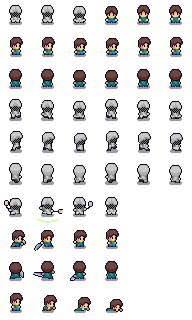
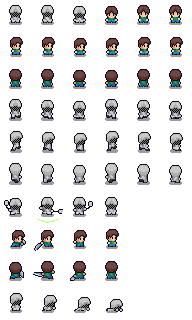
finalbossadd

diff --git a/src/js/enemies/finalboss.js b/src/js/enemies/finalboss.js
@@ -1,0 +1,224 @@
+import { Actor, Animation, AnimationStrategy, CollisionType, range, SpriteSheet, Vector } from "excalibur";
+import { Resources } from '../resources.js';
+import { Player } from "../player.js";
+import { Healthbar } from "../UI/healthBar.js";
+import { Projectile } from "../projectiles/projectile.js";
+
+export class Finalboss extends Actor {
+    currentAnimation = null;
+    detectionRadius = 5000; // Radius to detect the player
+    attackradius = 30;
+    normalSpeed = 50; // Normal movement speed
+    attackSpeed = 80; // Movement speed when attacking
+
+    playerSeen
+    damageTaken = false;
+
+    animationDeath
+    animationRight
+    animationLeft
+    animationAttack
+    animationHurt
+    healthBar
+    health = 1;
+    scene
+    game
+
+    constructor(scene, game) {
+        super({
+            width: 5, height: 5, collisionType: CollisionType.Active, z: 20
+        });
+        this.scale = new Vector(1, 1);
+        this.direction = new Vector(0, 0);
+        this.changeDirectionInterval = 2000;
+        this.timeSinceLastChange = 0;
+        this.scene = scene;
+        this.game = game
+    }
+
+    onInitialize(engine) {
+        super.onInitialize(engine);
+        this.collider.useBoxCollider(
+            25, 10, new Vector(0, 0), new Vector(-10, -5)
+        )
+       
+
+       
+
+        // Define the sprite sheet
+        const SpriteSheetFinalboss = SpriteSheet.fromImageSource({
+            image: Resources.Finalboss,
+            grid: {
+                rows: 10,
+                columns: 6,
+                spriteWidth: 32,
+                spriteHeight: 32
+            },
+
+        })
+
+        // Load movement animations
+        this.animationRight = Animation.fromSpriteSheet(SpriteSheetFinalboss, range(24, 29), 100);
+        this.animationLeft = Animation.fromSpriteSheet(SpriteSheetFinalboss, range(24, 29), 100);
+        this.animationTop = Animation.fromSpriteSheet(SpriteSheetFinalboss, range(18, 23), 100);
+        this.animationIdle = Animation.fromSpriteSheet(SpriteSheetFinalboss, range(18, 18), 100);
+        this.animationDown = Animation.fromSpriteSheet(SpriteSheetFinalboss, range(30, 35), 100);
+        this.animationLeft.flipHorizontal = true;
+        this.animationAttack = Animation.fromSpriteSheet(SpriteSheetFinalboss, range(36, 39), 100);
+        this.animationDeath = Animation.fromSpriteSheet(SpriteSheetFinalboss, range(54, 57), 100, AnimationStrategy.Freeze);
+
+        // Default start animation
+        this.graphics.use(this.animationRight);
+        this.currentAnimation = this.animationRight;
+        this.healthBar = new Healthbar(this.game, true);
+        this.addChild(this.healthBar);
+        this.healthBar.pos = new Vector(-8, -17);
+        this.healthBar.z = 999;
+        this.changeDirection();
+        // this.on('collisionstart', (evt) => this.onCollisionStart(evt));
+        this.on('collisionstart', (evt) => this.onCollisionStart(evt));
+        // this.on('collisionstart', (evt) => this.onCollisionStart(evt));
+    }
+
+    onCollisionStart(evt) {
+        if (evt.other instanceof Projectile) {
+            this.health -= evt.other.damage;
+            this.healthBar.reduceHealth(evt.other.damage);
+            this.graphics.use(this.animationHurt);
+            this.damageTaken = true
+            console.log(this.health)
+            if (this.health <= 0.01) {
+                this.graphics.use(this.animationDeath);
+                this.currentAnimation = this.animationDeath
+                this.healthBar.kill();
+                this.body.collisionType = CollisionType.PreventCollision
+                this.TimerGameover(evt.other)
+            }
+            evt.other.kill();
+        }
+    }
+
+    changeDirection() {
+        if (this.health > 0.01) {
+            const directions = [
+                new Vector(1, 0),   // Right
+                new Vector(-1, 0),  // Left
+                new Vector(0, 1),   // Down
+                new Vector(0, -1),  // Up
+                new Vector(0, 0)    // Still
+            ];
+            const randomDirection = directions[Math.floor(Math.random() * directions.length)];
+            this.direction = randomDirection;
+            this.updateAnimation(); // Update animation based on direction
+        }
+    }
+
+    updateAnimation() {
+        if (this.health > 0.01) {
+            if (this.direction.equals(new Vector(1, 0))) {
+                if (this.currentAnimation !== this.animationRight) {
+                    this.graphics.use(this.animationRight);
+                    this.currentAnimation = this.animationRight;
+                }
+            } else if (this.direction.equals(new Vector(-1, 0))) {
+                if (this.currentAnimation !== this.animationLeft) {
+                    this.graphics.use(this.animationLeft);
+                    this.currentAnimation = this.animationLeft;
+                }
+            } else if (this.direction.equals(new Vector(0, 1))) {
+                if (this.currentAnimation !== this.animationTop) {
+                    this.graphics.use(this.animationTop);
+                    this.currentAnimation = this.animationTop;
+                }
+            } else if (this.direction.equals(new Vector(0, -1))) {
+                if (this.currentAnimation !== this.animationDown) {
+                    this.graphics.use(this.animationDown);
+                    this.currentAnimation = this.animationDown;
+                }
+            } else if (this.direction.equals(new Vector(0, 0))) {
+                if (this.currentAnimation !== this.animationIdle) {
+                    this.graphics.use(this.animationIdle);
+                    this.currentAnimation = this.animationIdle;
+                }
+            }
+        }
+    }
+
+    onPreUpdate(engine, delta) {
+        if (this.health > 0.01) {
+            this.playerSeen = false;
+            let playerPositionx = 0; // Initialize player position
+            let playerPositiony = 0;
+            engine.currentScene.actors.forEach(actor => {
+                if (actor instanceof Player) {
+                    this.playerSeen = true;
+                    const distanceToPlayer = this.pos.distance(actor.pos);
+                    if (distanceToPlayer <= this.detectionRadius || this.damageTaken) {
+                        if (distanceToPlayer <= this.detectionRadius) {
+                            this.damageTaken = false;
+                        }
+                        this.direction = actor.pos.sub(this.pos).normalize();
+                        playerPositionx = actor.pos.x - this.pos.x; // Calculate player position relative to the bat
+                        playerPositiony = actor.pos.y - this.pos.y; // Calculate player position relative to the bat
+                        this.animationAttack.flipHorizontal = !(playerPositionx > 0);
+                        if (playerPositionx < 0 && playerPositionx < playerPositiony) {
+                            this.graphics.use(this.animationLeft)
+                            this.currentAnimation = this.animationLeft
+                        } else if (playerPositionx > 0 && playerPositionx > playerPositiony) {
+                            this.graphics.use(this.animationRight)
+                            this.currentAnimation = this.animationRight
+                        } if (playerPositiony < 0 && playerPositiony < playerPositionx) {
+                            this.graphics.use(this.animationDown)
+                            this.currentAnimation = this.animationDown
+                        } else if (playerPositiony > 0 && playerPositiony > playerPositionx) {
+                            this.graphics.use(this.animationTop)
+                            this.currentAnimation = this.animationTop
+                        }
+                        if (distanceToPlayer <= this.attackradius) {
+                            // Set animation flip based on player position relative to the bat
+                            this.graphics.use(this.animationAttack);
+                            this.currentAnimation = this.animationAttack;
+                            this.vel = this.direction.scale(this.attackSpeed);
+                        } else {
+                            this.vel = this.direction.scale(this.normalSpeed);
+                        }
+                    } else {
+                        this.timeSinceLastChange += delta;
+                        if (this.timeSinceLastChange >= this.changeDirectionInterval) {
+                            this.changeDirection();
+                            this.timeSinceLastChange = 0;
+                        }
+                        this.vel = this.direction.scale(this.normalSpeed);
+                    }
+                }
+
+            });
+
+            if (!this.playerSeen) {
+                this.timeSinceLastChange += delta;
+                if (this.timeSinceLastChange >= this.changeDirectionInterval) {
+                    this.changeDirection();
+                    this.timeSinceLastChange = 0;
+                }
+                this.vel = this.direction.scale(this.normalSpeed);
+            }
+        } else {
+            this.vel = new Vector(0, 0);
+            this.body.collisionType = CollisionType.PreventCollision
+        }
+    }
+
+
+    TimerGameover(enemy) {
+        console.log('timer')
+        setTimeout(() => {
+            enemy.killedOther = false;
+            this.body.collisionType = CollisionType.Active
+            this.game.goToEndscene(); 
+        }, 1000)
+    }
+
+
+}
+
+

diff --git a/src/js/levels/overworldLevel.js b/src/js/levels/overworldLevel.js
@@ -7,6 +7,7 @@ import { noFlower } from "../noflowers.js";
 import { Chest } from "../chest.js";
 import { Bush } from "../bush.js";
 import { Man } from "../enemies/man.js";
+import { Finalboss } from "../enemies/finalboss.js";
 
 export class OverworldLevel extends Scene {
 
@@ -43,6 +44,10 @@ export class OverworldLevel extends Scene {
 
         this.enterlevel4 = new EnterLevel(287.45, 694, this.game, 4);
         this.add(this.enterlevel4);
+
+        this.finalboss = new Finalboss(null , this.game);
+        this.finalboss.pos = new Vector (1300, 1300)
+        this.add(this.finalboss);
 
         for (let i = 0; i < 300; i++) {
             this.flower = new Flower(this.getRandomNumber(0, 2400), this.getRandomNumber(0, 2400))

diff --git a/src/js/game.js b/src/js/game.js
@@ -58,24 +58,9 @@ export class Game extends Engine {
 
     startGame() {
         console.log("start de game!")
-        this.goToLevel1(this);
-        this.goToLevel2(this);
-        this.goToLevel3(this);
-        this.goToLevel4(this);
-        this.goToGameOverScene(this)
-        // go to specific scene
+    
         this.goToOverWorld();
-        //this.goToLevel3();
-        //this.goToEndcredits();
-        //this.goToEndcredits();
-        //this.goToOverWorld();
-        this.goToLevel3(this);
-
-        //this.goToStoryScene();
-        // this.goToStoryScene();
-        // this.goToStartScene();
-        //this.goToStartScene();
-        this.goToEndscene();
+      
     }
 
     goToOverWorld() {

diff --git a/src/js/resources.js b/src/js/resources.js
@@ -73,7 +73,8 @@ const Resources = {
     SantaHatIcon: new ImageSource('images/hat_icons/santaicon.png'),
     SombreroIcon: new ImageSource('images/hat_icons/sombreroicon.png'),
     TopHatIcon: new ImageSource('images/hat_icons/tophaticon.png'),
-    WizzardIcon: new ImageSource('images/hat_icons/wizzardicon.png')
+    WizzardIcon: new ImageSource('images/hat_icons/wizzardicon.png'),
+    Finalboss: new ImageSource('images/Endboss.png')
 
 }
 
